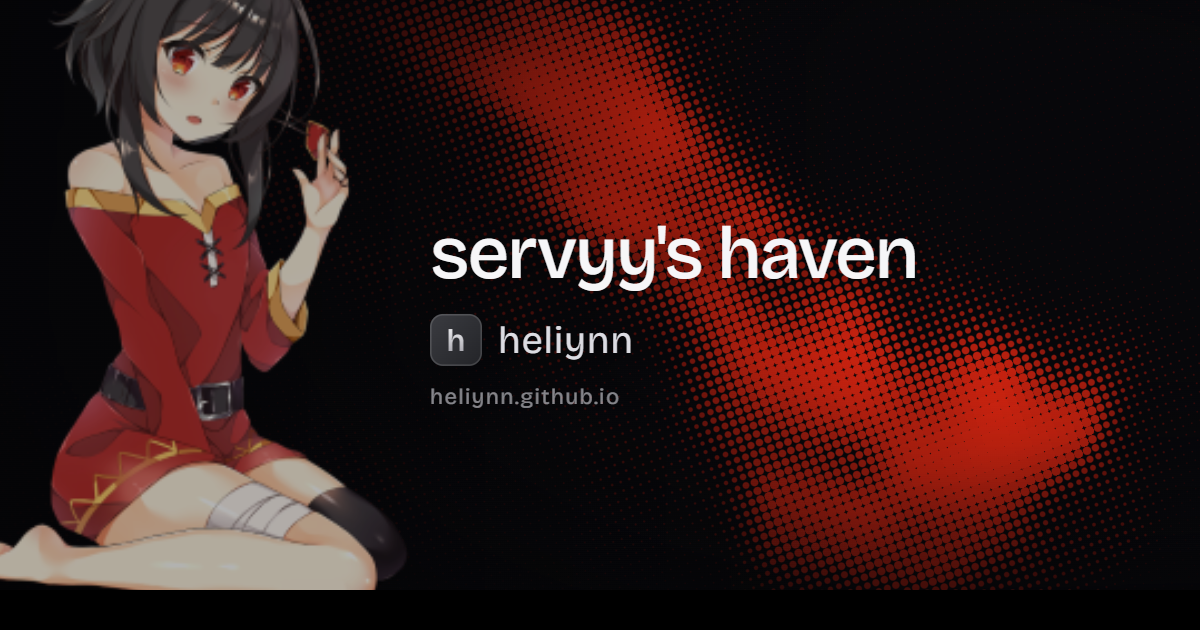
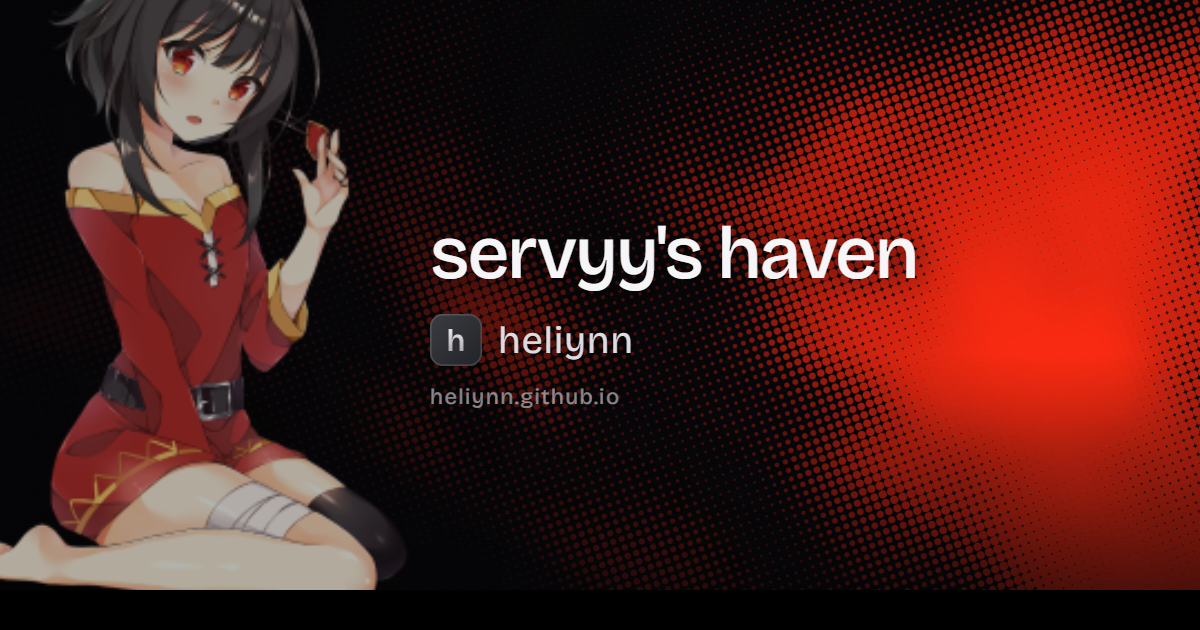
Give the dots their red back
The last pass pulled the field down so far that most of the screen sat under the first step of the ramp. The base is up and the noise is quieter, so the dots carry red across the whole frame instead of only at the two lights, without the screen turning into one solid slab.

Generated with Codebuff

diff --git a/backdrop.js b/backdrop.js
@@ -79,9 +79,14 @@
       vec2 dr = (uv - right) * vec2(1.15, 1.0);
       /* max, not sum: when the two lights drift together their overlap must not
          double the brightness or the frame floods */
-      float light = max(exp(-dot(dl, dl) * 2.6) * 0.42, exp(-dot(dr, dr) * 2.8) * 0.42);
+      float light = max(exp(-dot(dl, dl) * 1.9) * 0.38, exp(-dot(dr, dr) * 2.1) * 0.36);
 
-      return clamp(0.10 + (n - 0.5) * 0.95 + light - 0.08, 0.0, 1.0);
+      /* an anchor glow that does not travel, so the screen never goes fully
+         dark while the two lights are both out at the edges */
+      vec2 anchor = (uv - vec2(0.80, 0.56)) * vec2(1.1, 1.0);
+      light = max(light, exp(-dot(anchor, anchor) * 1.5) * 0.30);
+
+      return clamp(0.40 + (n - 0.5) * 0.55 + light - 0.08, 0.0, 1.0);
     }
 
     void main() {
@@ -97,12 +102,12 @@
       vec2 centre = vec2(ca * cell.x + sa * cell.y, -sa * cell.x + ca * cell.y) * uStep;
 
       /* stretch the mid tones so bright regions actually saturate */
-      float v = smoothstep(0.13, 1.12, field(centre, uTime));
+      float v = smoothstep(0.13, 0.98, field(centre, uTime));
 
       /* a late, steep curve on purpose: dots stay small across most of the
          ramp and only meet right at the top, so the run from black through
          dots to solid red takes up space instead of snapping */
-      float radius = 0.055 + pow(v, 2.0) * 0.80;
+      float radius = 0.055 + pow(v, 2.0) * 0.82;
 
       float dist = length(fract(g) - 0.5) - radius;
       float aa = 0.9 / uStep;

diff --git a/index.html b/index.html
@@ -9,7 +9,7 @@
   <meta property="og:type" content="website" />
   <meta property="og:title" content="servyy's haven" />
   <meta property="og:description" content="I'm heliynn. I use AI to make small tools and websites, then leave them here for whoever wants them." />
-  <meta property="og:image" content="https://heliynn.github.io/assets/share.png?v=7" />
+  <meta property="og:image" content="https://heliynn.github.io/assets/share.png?v=8" />
   <meta property="og:image:type" content="image/png" />
   <meta property="og:image:width" content="1200" />
   <meta property="og:image:height" content="630" />
@@ -17,7 +17,7 @@
   <meta name="twitter:card" content="summary_large_image" />
   <meta name="twitter:title" content="servyy's haven" />
   <meta name="twitter:description" content="I'm heliynn. I use AI to make small tools and websites, then leave them here for whoever wants them." />
-  <meta name="twitter:image" content="https://heliynn.github.io/assets/share.png?v=7" />
+  <meta name="twitter:image" content="https://heliynn.github.io/assets/share.png?v=8" />
   <link rel="icon" href="favicon.svg" type="image/svg+xml" />
   <link rel="preconnect" href="https://fonts.googleapis.com" />
   <link rel="preconnect" href="https://fonts.gstatic.com" crossorigin />
@@ -220,7 +220,7 @@
     </div>
   </div>
 
-  <script src="backdrop.js?v=8"></script>
+  <script src="backdrop.js?v=9"></script>
   <script src="content.js?v=18"></script>
   <script src="script.js?v=14"></script>
 </body>

diff --git a/404.html b/404.html
@@ -39,6 +39,6 @@
 
   <img class="art art--left" src="/assets/art-left.png" alt="" aria-hidden="true" width="217" height="320" />
   <img class="art art--right" src="/assets/art-right.png" alt="" aria-hidden="true" width="228" height="340" />
-  <script src="backdrop.js?v=8"></script>
+  <script src="backdrop.js?v=9"></script>
 </body>
 </html>

diff --git a/fflags-cs.html b/fflags-cs.html
@@ -53,7 +53,7 @@
     </noscript>
   </main>
 
-  <script src="backdrop.js?v=8"></script>
+  <script src="backdrop.js?v=9"></script>
   <script src="viewer.js?v=7"></script>
 </body>
 </html>

diff --git a/fflags-hpp.html b/fflags-hpp.html
@@ -53,7 +53,7 @@
     </noscript>
   </main>
 
-  <script src="backdrop.js?v=8"></script>
+  <script src="backdrop.js?v=9"></script>
   <script src="viewer.js?v=7"></script>
 </body>
 </html>

diff --git a/fflags-txt.html b/fflags-txt.html
@@ -53,7 +53,7 @@
     </noscript>
   </main>
 
-  <script src="backdrop.js?v=8"></script>
+  <script src="backdrop.js?v=9"></script>
   <script src="viewer.js?v=7"></script>
 </body>
 </html>

diff --git a/fflags.html b/fflags.html
@@ -52,7 +52,7 @@
     </noscript>
   </main>
 
-  <script src="backdrop.js?v=8"></script>
+  <script src="backdrop.js?v=9"></script>
   <script src="viewer.js?v=7"></script>
 </body>
 </html>

diff --git a/offsets-cs.html b/offsets-cs.html
@@ -53,7 +53,7 @@
     </noscript>
   </main>
 
-  <script src="backdrop.js?v=8"></script>
+  <script src="backdrop.js?v=9"></script>
   <script src="viewer.js?v=7"></script>
 </body>
 </html>

diff --git a/offsets-hpp.html b/offsets-hpp.html
@@ -53,7 +53,7 @@
     </noscript>
   </main>
 
-  <script src="backdrop.js?v=8"></script>
+  <script src="backdrop.js?v=9"></script>
   <script src="viewer.js?v=7"></script>
 </body>
 </html>

diff --git a/offsets-txt.html b/offsets-txt.html
@@ -53,7 +53,7 @@
     </noscript>
   </main>
 
-  <script src="backdrop.js?v=8"></script>
+  <script src="backdrop.js?v=9"></script>
   <script src="viewer.js?v=7"></script>
 </body>
 </html>

diff --git a/offsets.html b/offsets.html
@@ -52,7 +52,7 @@
     </noscript>
   </main>
 
-  <script src="backdrop.js?v=8"></script>
+  <script src="backdrop.js?v=9"></script>
   <script src="viewer.js?v=7"></script>
 </body>
 </html>

diff --git a/struct.html b/struct.html
@@ -49,7 +49,7 @@
     </noscript>
   </main>
 
-  <script src="backdrop.js?v=8"></script>
+  <script src="backdrop.js?v=9"></script>
   <script src="viewer.js?v=7"></script>
 </body>
 </html>
